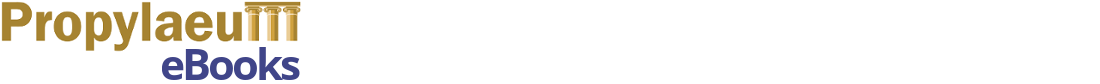
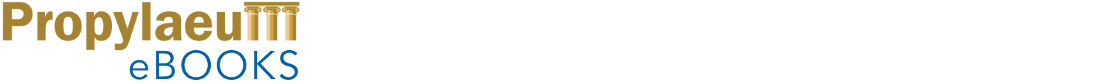
farbänderungen

Changed region(s): [[0.0, 0.0714, 0.2782, 0.5476], [0.0618, 0.5476, 0.2782, 0.9524], [0.0, 0.0238, 0.0309, 0.0714]]

diff --git a/static/css/default.css b/static/css/default.css
@@ -3,7 +3,7 @@
 a, a:hover,a:focus,a:active, footer a.text-link:hover, strike, .post-meta span a:hover, footer a.text-link, 
 ul.meta-post li a:hover, ul.cat li a:hover, ul.recent li h6 a:hover, ul.portfolio-categ li.active a, ul.portfolio-categ li.active a:hover, ul.portfolio-categ li a:hover,ul.related-post li h4 a:hover, span.highlight,article .post-heading h3 a:hover,
 .navbar .nav > .active > a,.navbar .nav > .active > a:hover,.navbar .nav > li > a:hover,.navbar .nav > li > a:focus,.navbar .nav > .active > a:focus, .validation  { 
-	color:#40448b;
+	color:#0060aa;
         font-weight:bold;
 }
 
@@ -50,12 +50,12 @@ header .nav li.active ul.dropdown-menu li.active a{
 .pagination ul > .active > span,
 .flex-control-nav li a:hover, 
 .flex-control-nav li a.active {
-  background-color: #40448b;
+  background-color: #0060aa;
 }
 
 
 .breadcrumb {
-  background-color: #40448b;
+  background-color: #0060aa;
 }
 
 /* === border color === */
@@ -126,7 +126,7 @@ ul.clients li:hover {
 }
 
 .box-bottom a {
-    color: #40448b;
+    color: #0060aa;
 }
 
 /* buttons */

diff --git a/static/css/style.css b/static/css/style.css
@@ -260,7 +260,7 @@ header ul.nav li ul li a {
 
 
 .navbar .nav > li > a {
-  color: #40448b;
+  color: #0060aa;
   text-shadow: none;
 }
 
@@ -2222,7 +2222,7 @@ li.active {
 .flex-caption .btn-theme,
 .widget ul.tags li a,
 .widget ul.tags li a:hover {
-  background:  #40448b !important;
+  background:  #0060aa !important;
   border: none;
 }
 
